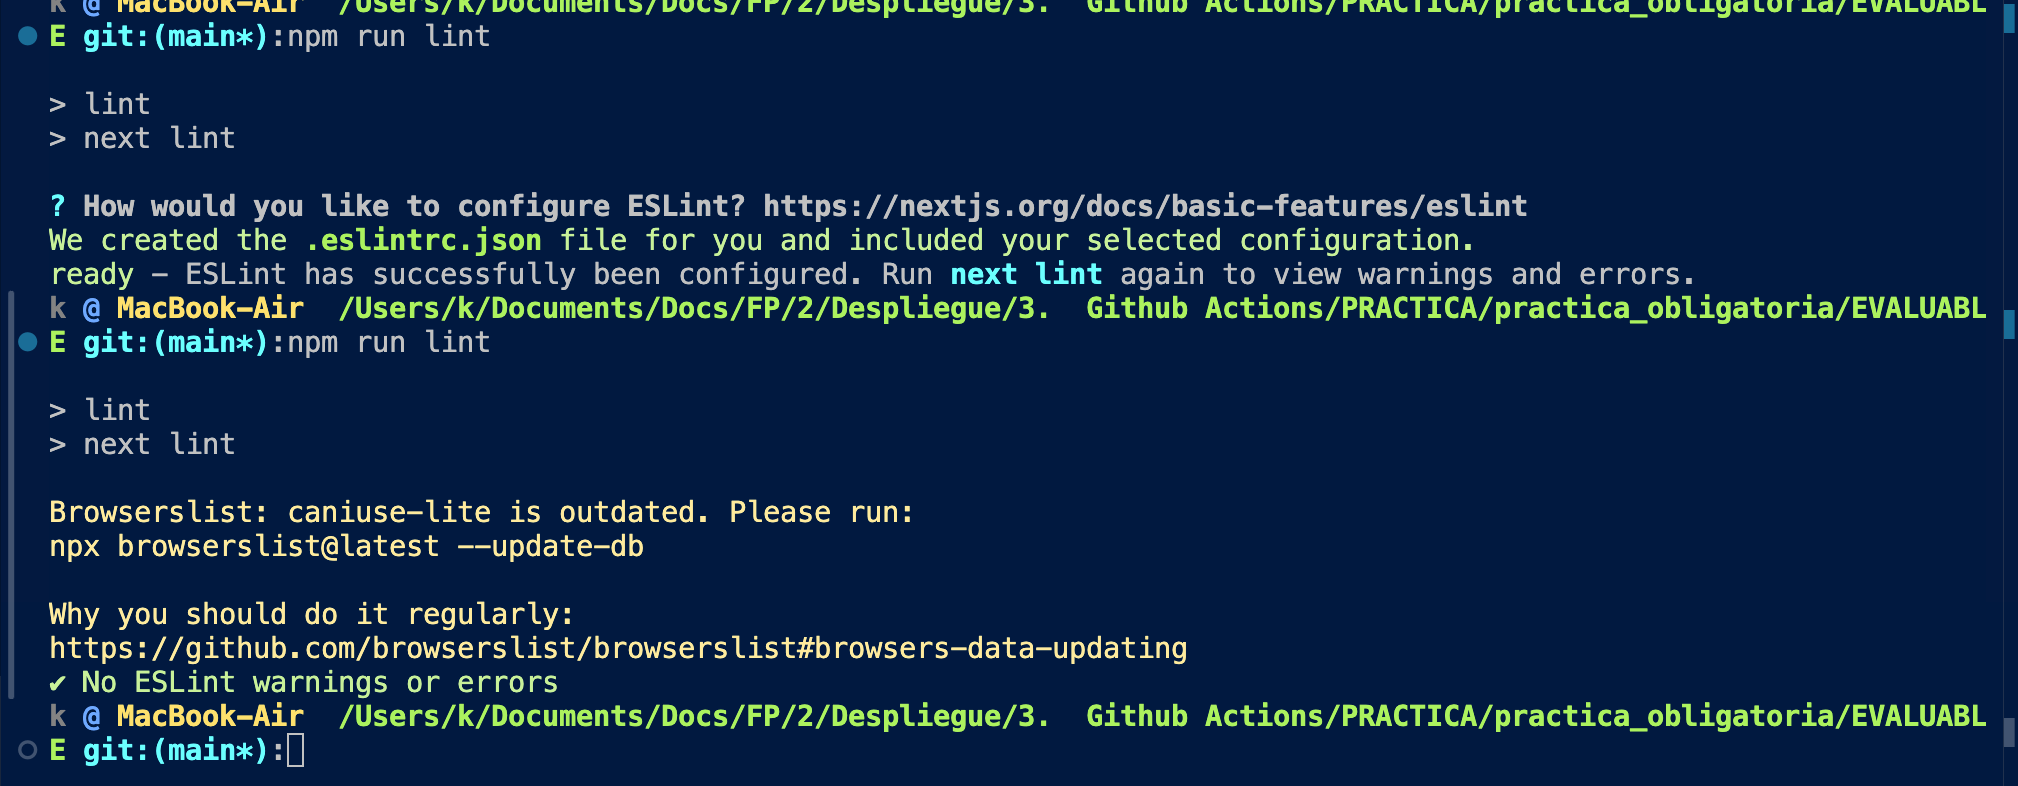
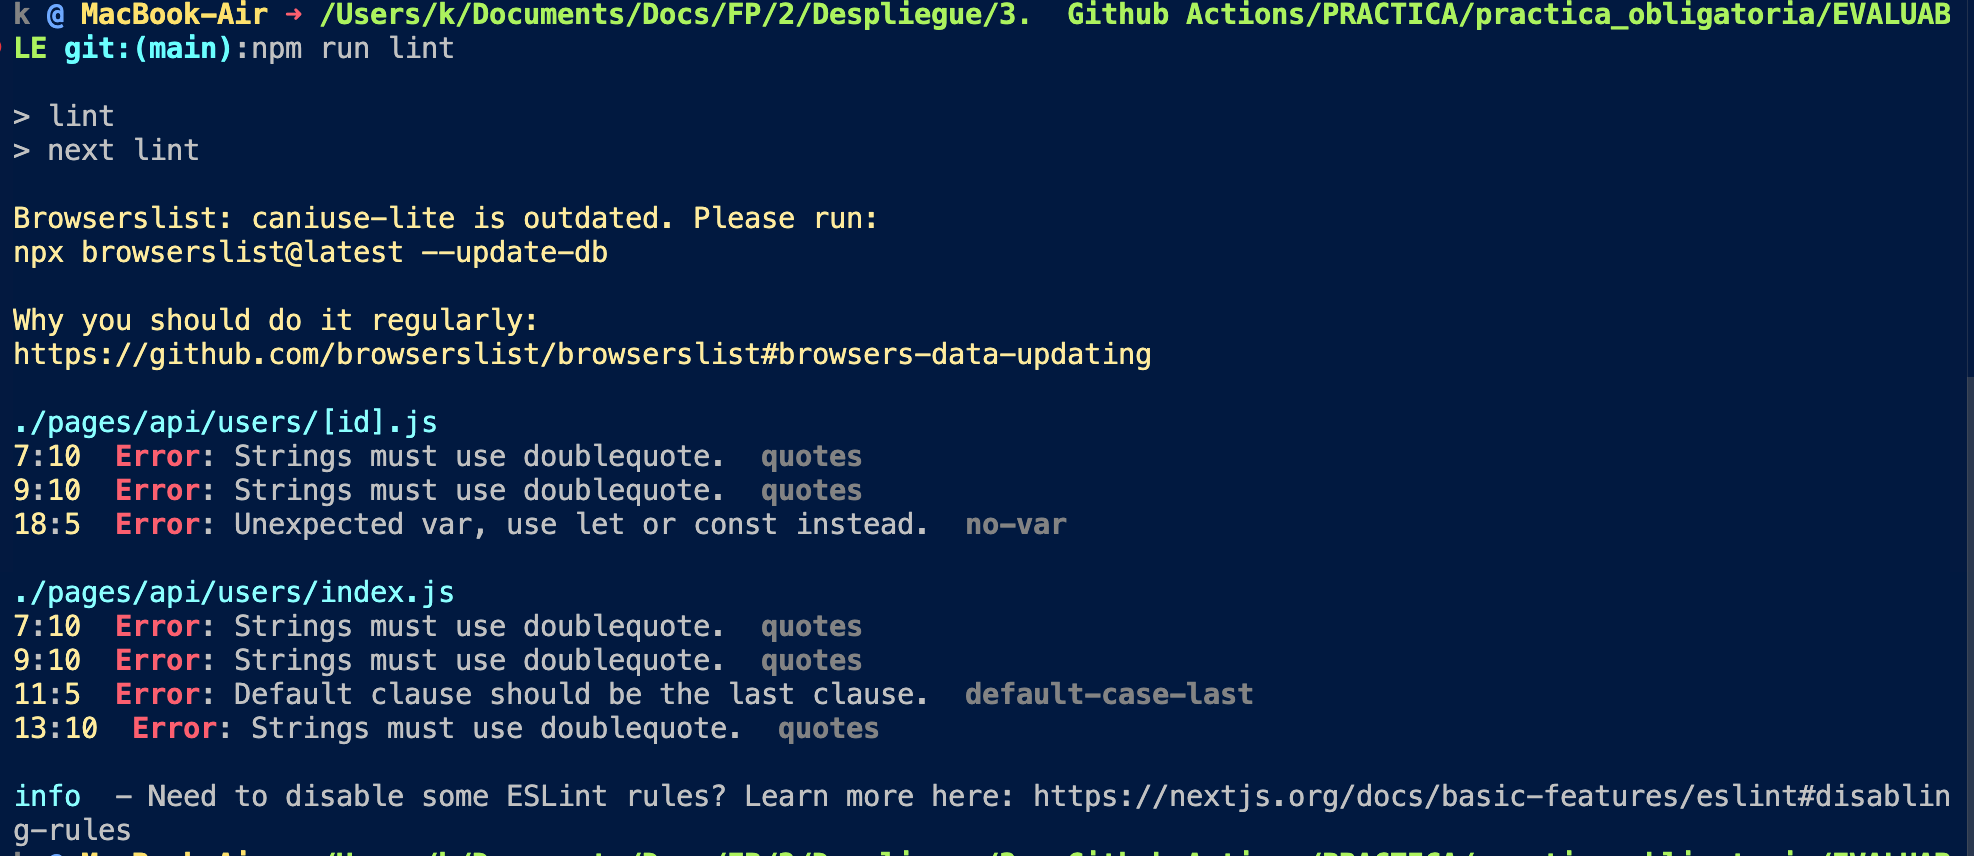
Corregit eslint

diff --git a/pages/api/users/index.js b/pages/api/users/index.js
@@ -4,15 +4,14 @@ export default handler;
 
 function handler(req, res) {
   switch (req.method) {
-    case 'GET':
+    case "GET":
       return getUsers();
-    case 'POST0':
+    case "POST0":
       return createUser();
-    default:
-        return res.status(405).end(`Method ${req.method} Not Allowed`);
-    case 'DELETE':
+    case "DELETE":
       return deleteAllUsers();
-
+    default:
+      return res.status(405).end(`Method ${req.method} Not Allowed`);
   }
 
   function getUsers() {

diff --git a/pages/api/users/[id].js b/pages/api/users/[id].js
@@ -4,9 +4,9 @@ export default handler;
 
 function handler(req, res) {
   switch (req.method) {
-    case 'GET':
+    case "GET":
       return getUserById();
-    case 'PUT':
+    case "PUT":
       return updateUser();
     case "DELETE":
       return deleteUser();
@@ -15,7 +15,7 @@ function handler(req, res) {
   }
 
   function getUserById() {
-    var user = usersRepo.getById(req.query.id);
+    const user = usersRepo.getById(req.query.id);
     return res.status(200).json(user);
   }
 

diff --git a/README.md b/README.md
@@ -10,10 +10,14 @@ Instalem els moduls de node
 Comprovem que el projecte s' inicia
 ![](capturas/start.png)
 
-Iniciem EsLint (crea el .eslintrc.json) i executem npm run lint perque comprove la sintaxi
+Executem npm run lint en local perque comprove la sintaxi
+![](capturas/lint.png)
+
+Corregim els errors
 ![](capturas/lint.png)
 
 Creem la carpeta .github i dins de /workflows creem les actions
+![](capturas/linter-job.png)
 
 Example of nextjs project using Cypress.io
 
